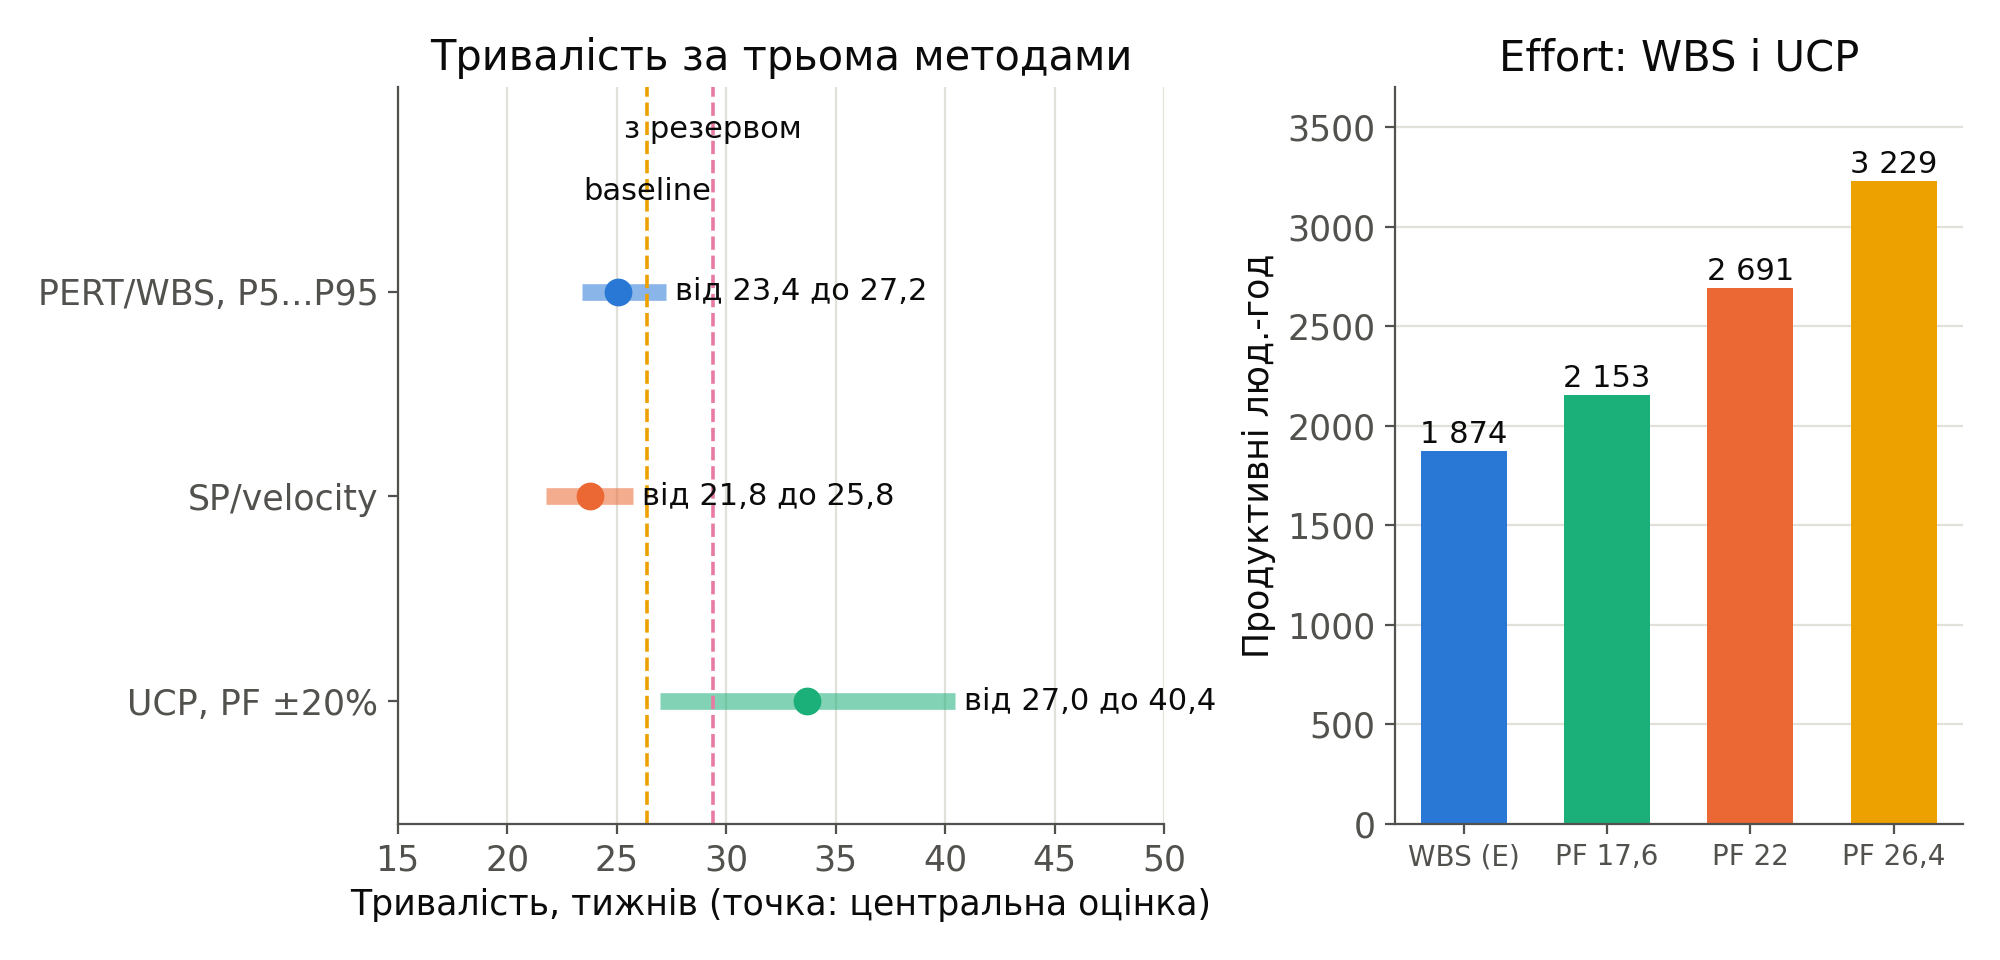
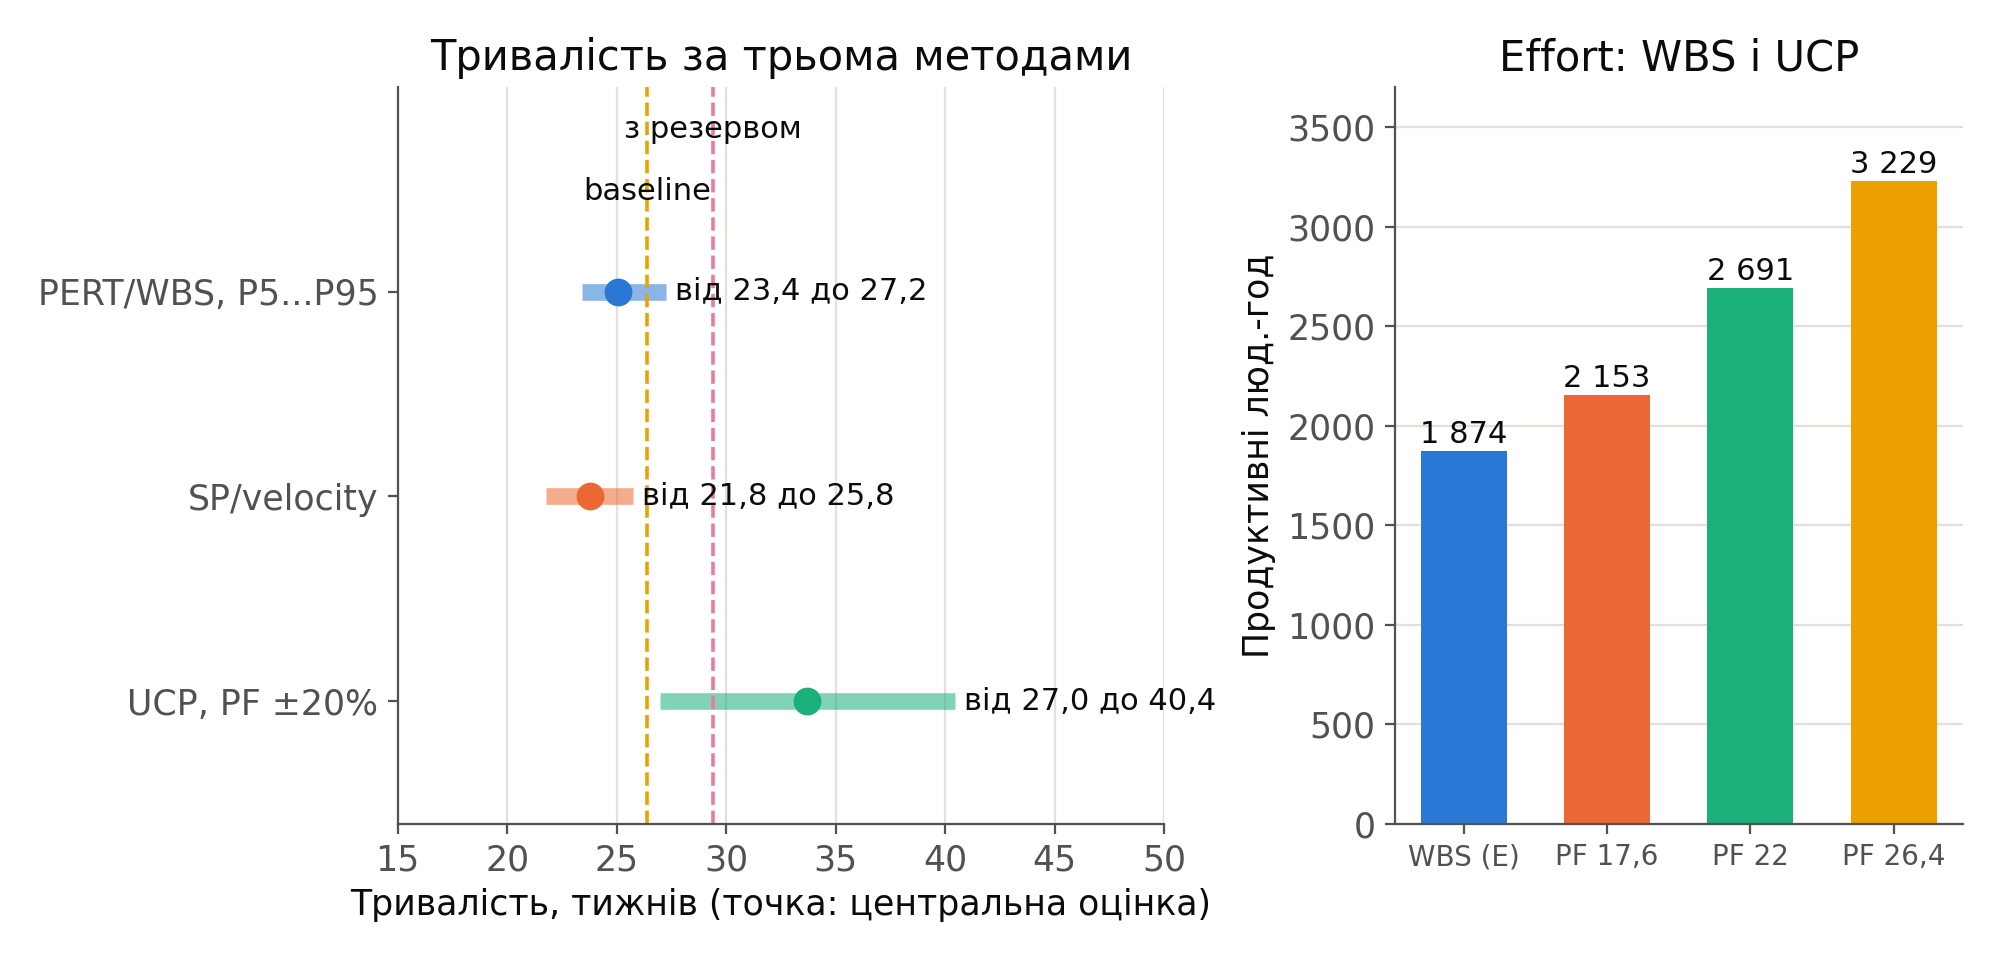
Lab 2 review fixes: inherited scope, unified A5 threshold, formula listing, chart legends and palette order

Changed region(s): [[0.775, 0.2812, 0.899, 0.875]]

diff --git a/lab2/build_lab2.py b/lab2/build_lab2.py
@@ -11,6 +11,7 @@ import matplotlib
 matplotlib.use("Agg")
 import matplotlib.pyplot as plt
 import matplotlib.dates as mdates
+from matplotlib.ticker import FuncFormatter
 import numpy as np
 from openpyxl import Workbook, load_workbook
 from openpyxl.styles import Font
@@ -32,6 +33,9 @@ ROW = {w.wid: FIRST + i for i, w in enumerate(m.WBS)}
 LAST = FIRST + len(m.WBS) - 1
 END_ROW = LAST + 2
 VEL_ROWS = [0, 0]
+
+
+UA_MONTHS = ["січ", "лют", "бер", "кві", "тра", "чер", "лип", "сер", "вер", "жов", "лис", "гру"]
 
 
 def iso(s):
@@ -602,7 +606,7 @@ def chart_gantt():
     sched, end = m.cpm()
     bl = m.baseline()
     order = [w for w in m.WBS]
-    fig, ax = plt.subplots(figsize=(10, 9.4), dpi=200)
+    fig, ax = plt.subplots(figsize=(10, 8.4), dpi=200)
     for i, w in enumerate(order):
         s = sched[w.wid]
         y = len(order) - 1 - i
@@ -614,9 +618,9 @@ def chart_gantt():
             lf = mdates.date2num(to_date_end(s["lf"])) + 1
             ax.plot([fin, lf], [y, y], color=MUTED, linewidth=1.2)
             ax.plot([lf], [y], marker="|", color=MUTED, markersize=8)
-    labels = [f"{w.wid} {textwrap.shorten(w.name.split(':')[0], 28, placeholder='...')}" for w in order][::-1]
+    labels = [f"{w.wid} {w.name.split(':')[0]}" for w in order][::-1]
     ax.set_yticks(range(len(order)))
-    ax.set_yticklabels(labels, fontsize=11)
+    ax.set_yticklabels(labels, fontsize=10)
     p50 = mdates.date2num(to_date_end(bl["p50"])) + 1
     blv = mdates.date2num(iso(bl["finish"]).date()) + 1
     mrv = mdates.date2num(iso(bl["finish_mr"]).date()) + 1
@@ -648,7 +652,7 @@ def chart_gantt():
     ax.set_ylim(-4.8, len(order) + 3.3)
     ax.xaxis_date()
     ax.xaxis.set_major_locator(mdates.MonthLocator())
-    ax.xaxis.set_major_formatter(mdates.DateFormatter("%m.%y"))
+    ax.xaxis.set_major_formatter(FuncFormatter(lambda v, _: UA_MONTHS[mdates.num2date(v).month - 1] + "\n" + str(mdates.num2date(v).year)))
     k.axes(ax)
     ax.grid(axis="y", visible=False)
     from matplotlib.patches import Patch
@@ -657,7 +661,7 @@ def chart_gantt():
                Line2D([0], [0], color=MUTED, label="резерв часу пакета"), Line2D([0], [0], marker="D", color=COLORS[2], linestyle="", label="віха"),
                Patch(color=COLORS[3], label="contingency"), Patch(color=COLORS[4], label="management reserve"),
                Patch(color="#f4f3ee", label="спринти центрального прогнозу")]
-    ax.legend(handles=handles, loc="lower center", bbox_to_anchor=(0.4, -0.2), ncol=3, frameon=False, fontsize=11)
+    ax.legend(handles=handles, loc="upper center", bbox_to_anchor=(0.35, -0.09), ncol=3, frameon=False, fontsize=10.5)
     ax.set_title("Календарний план MVP (тривалості E, ранній старт)", color=INK)
     fig.tight_layout()
     fig.savefig(OUT / "fig_gantt.png")
@@ -728,14 +732,14 @@ def chart_mc():
     pp = m.p50_p80()
     bl = m.baseline()
     tot = mc["total"]
-    fig, (a1, a2) = plt.subplots(1, 2, figsize=(10, 4.8), dpi=200)
+    fig, (a1, a2) = plt.subplots(1, 2, figsize=(10, 6.0), dpi=200)
     a1.hist(tot, bins=50, color=COLORS[0], alpha=0.85)
     for v, c, lbl in ((pp["p50"], COLORS[1], "P50 аналітично"), (pp["p80"], COLORS[2], "P80 аналітично"), (mc["p80"], COLORS[3], "P80 Монте-Карло")):
         a1.axvline(v, color=c, linewidth=1.6, label=f"{lbl}: {v:.1f}".replace(".", ","))
     a1.set_xlabel("Тривалість проєкту, роб. днів")
     a1.set_ylabel("Кількість прогонів")
     a1.set_title("Розподіл тривалості, " + f"{mc['n']:,}".replace(",", " ") + " прогонів")
-    a1.legend(frameon=False, fontsize=10.5)
+    a1.legend(loc="upper center", bbox_to_anchor=(0.5, -0.17), frameon=False, fontsize=10.5)
     k.axes(a1)
     xs = np.sort(tot)
     ys = np.arange(1, len(xs) + 1) / len(xs)
@@ -749,7 +753,7 @@ def chart_mc():
     a2.set_xlabel("Тривалість проєкту, роб. днів")
     a2.set_ylabel("Імовірність завершити не пізніше")
     a2.set_title("S-крива")
-    a2.legend(frameon=False, fontsize=10.5, loc="lower right")
+    a2.legend(loc="upper center", bbox_to_anchor=(0.5, -0.17), frameon=False, fontsize=10.5)
     k.axes(a2)
     fig.tight_layout()
     fig.savefig(OUT / "fig_mc.png")
@@ -787,7 +791,7 @@ def chart_methods():
     a1.grid(axis="y", visible=False)
     effs = [("WBS (E)", sum(w.effort_e for w in m.WBS)), ("PF 17,6", m.ucp(m.UCP_PF * 0.8)["effort"]),
             ("PF 22", m.ucp()["effort"]), ("PF 26,4", m.ucp(m.UCP_PF * 1.2)["effort"])]
-    bars = a2.bar([e[0] for e in effs], [e[1] for e in effs], color=[COLORS[0], COLORS[2], COLORS[1], COLORS[3]], width=0.6)
+    bars = a2.bar([e[0] for e in effs], [e[1] for e in effs], color=[COLORS[0], COLORS[1], COLORS[2], COLORS[3]], width=0.6)
     for b in bars:
         a2.text(b.get_x() + b.get_width() / 2, b.get_height() + 40, f"{b.get_height():,.0f}".replace(",", " "), ha="center", fontsize=11, color=INK)
     a2.set_ylabel("Продуктивні люд.-год")

diff --git a/econ_model.py b/econ_model.py
@@ -772,7 +772,7 @@ def ucp_calendar(pf=UCP_PF):
 ROLE = {r.rid: r for r in ROLES}
 
 MR_DAYS = 15
-MR_NOTE = "системний сценарій ключової невизначеності: понад 10% лічильників пілотних будівель нестабільні (A5 не підтверджено); потрібні оцінювання прогалин, адаптери для 2 додаткових типів лічильників і повторне тестування F3"
+MR_NOTE = "системний сценарій ключової невизначеності: частка пропущених інтервалів понад 10% або дозавантаження нижче 99,5% (A5 з ЛР № 1 не підтверджено); потрібні оцінювання прогалин, адаптери для 2 додаткових типів лічильників і повторне тестування F3"
 
 
 def workday(n):
